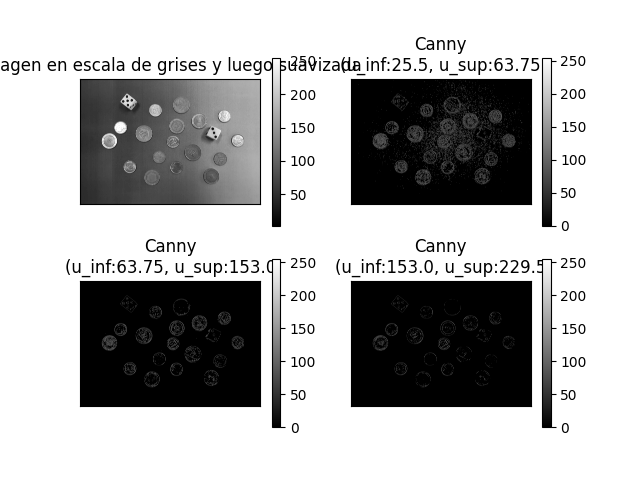
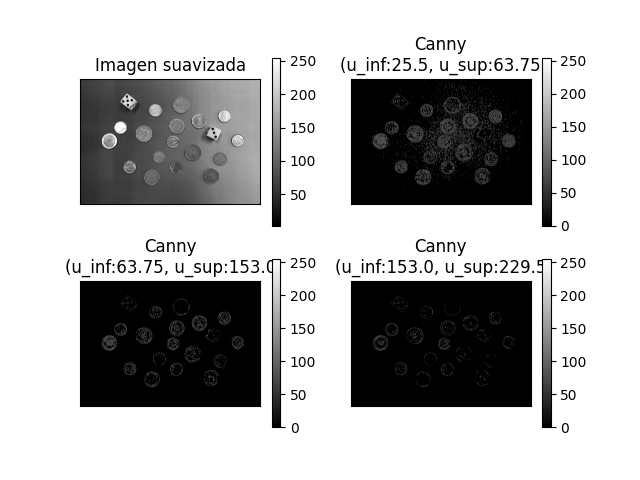
modifique titulo de una imagen

Changed region(s): [[0.0, 0.125, 0.5625, 0.1562]]

diff --git a/ejercicio_1/ejercicio1.py b/ejercicio_1/ejercicio1.py
@@ -40,7 +40,7 @@ img_blur = cv2.medianBlur(img, 5)
 parejas_umbrales = [(0.1*255,0.25*255),(0.25*255,0.6*255),(0.6*255,0.9*255)]
 plt.figure()
 ax = plt.subplot(221)
-imshow(img_blur, new_fig=False, title="Imagen en escala de grises y luego suavizada")
+imshow(img_blur, new_fig=False, title="Imagen suavizada")
 for i,pareja_umbrales in enumerate(parejas_umbrales):
     th_1,th_2 = pareja_umbrales
     img_canny = cv2.Canny(img_blur, threshold1=th_1, threshold2=th_2)
